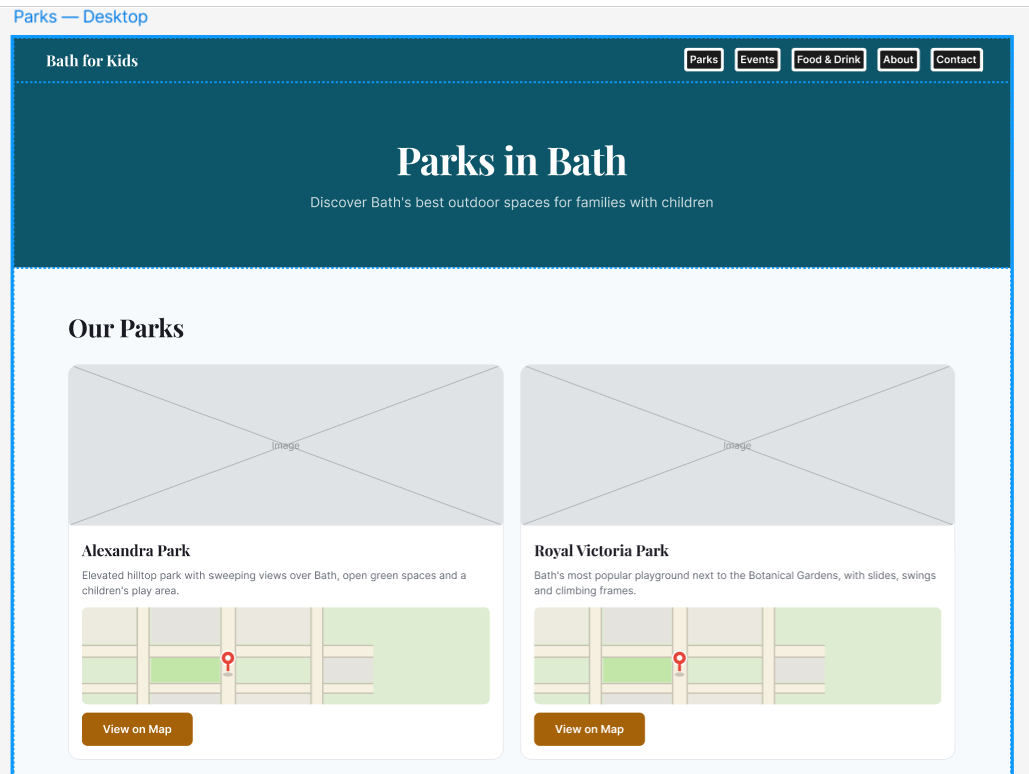
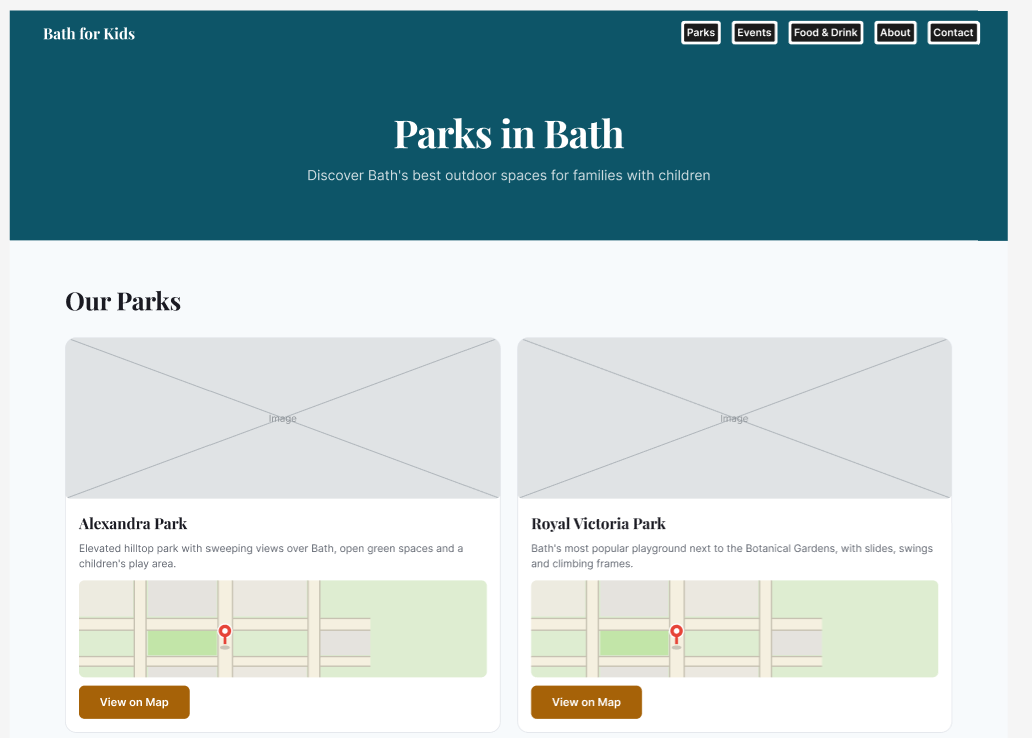
Update Parks desktop screenshot and match aspect ratio

diff --git a/bath-for-kids-accessibility.html b/bath-for-kids-accessibility.html
@@ -229,7 +229,7 @@
             </div>
           </section>
 
-          <div class="image-block" style="aspect-ratio: 1029 / 774; background: var(--white);">
+          <div class="image-block" style="aspect-ratio: 1032 / 738; background: var(--white);">
             <img src="images/bath_for_kids_parks_desktop.png" alt="Bath for Kids Parks page, desktop view" style="object-fit: contain;" />
           </div>
           <p class="caption">The Parks page on Desktop after remediation.</p>
